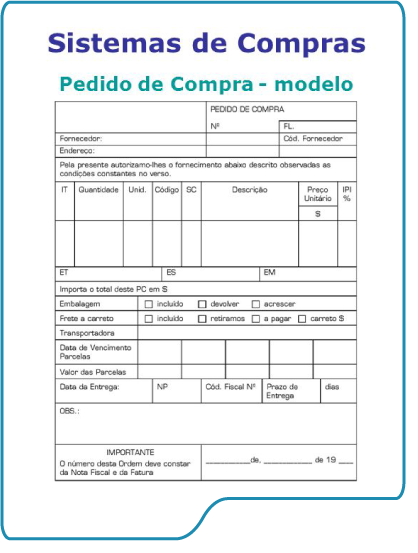
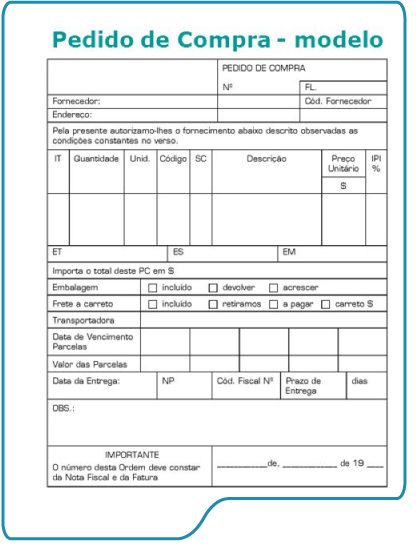
ajuste

Changed region(s): [[0.0933, 0.0, 0.9952, 0.8915], [0.0, 0.0, 0.0311, 0.9837]]

diff --git a/conteudo/05_tendencias.html b/conteudo/05_tendencias.html
@@ -690,6 +690,8 @@
             <div class="caixa-destaque">
             <p> <strong>CD (custos diretos) + CI (custos indiretos) + DF (despesas fixas) + DV (despesas variáveis) = CT (custo total) </strong></p>
             </div>
+            
+            <p class="only-print" style="page-break-after: always;"></p>
             <h4>Definição da margem de lucro </h4>
             <p>
               É imprescindível saber definir quanto a empresa ganhará após uma venda, ou seja, qual será o seu lucro. Isso não deve ser associado simplesmente a preços altos. Saber como calcular o custo de um produto de forma correta pode aumentar muito mais a sua margem de ganhos do que um preço elevado, por exemplo. 
@@ -912,7 +914,7 @@
             <p>Para garantir a confiabilidade da compra, quanto mais detalhado for o pedido de compra, melhor, pois assim o comprador e o vendedor conseguem realizar transações seguras e bem-sucedidas. Veja um modelo de pedido de compras: </p>
           
             <figure>
-              <img src="images/05/img06.png" style="max-width: 500px!important; " class="center-block img-responsive print borda img-menor"
+              <img src="images/05/img06.png" style="max-width: 400px!important; " class="center-block img-responsive print borda img-menor"
                 alt="A imagem mostra o modelo de um pedido de compras que tem, no cabeçalho, campos para as informações do fornecedor, no corpo, campos para detalhes do pedido e, no rodapé, aviso e campo para data. ">
               <figcaption>Modelo de pedido de compra  
                 <br>  Fonte: <i>Blog</i> Gestão de SANDs (2017) 
@@ -1248,6 +1250,69 @@
             <p>Se o pagamento por boleto bancário é funcional para o cliente, ele também apresenta vantagens para o gestor, principalmente para aqueles que trabalham com serviços de recorrência, como acontece com um clube de assinaturas. Isso porque é possível que o empreendedor aplique uma régua de cobrança e, assim, envie mensagens e alertas sobre o <i>status</i> do pagamento para o cliente, uma situação que contribui muito para a diminuição da inadimplência. </p>
             <p>Conheça como isso funciona na prática: </p>
             <h1>podcast</h1>
+        <div class="acessivel print">
+<p>Podcast Ferramentas de controle </p>
+<p>Olá, estudantes do curso Técnico em Óptica do Senac EAD. Aqui quem fala é Maressah Sampaio, eu sou jornalista e hoje a nossa pauta é ferramentas de controle. </p>
+<p>E para bater um papo sobre esse assunto, está aqui comigo a tutora Patrícia Reddel, que é técnica em óptica, bióloga, mestre em biociências e empresária do ramo óptico, além, é claro, de tutora do curso Técnico em Óptica aqui do Senac EAD e diretora do Sindióptica. Quanta coisa, Patrícia! Tudo bem?  </p>
+<p>Tudo bem, que prazer estar aqui hoje podendo bater este papo com vocês.  </p>
+<p>Só faltou perguntar, mais ou menos, quanto tempo tu está nesse ramo da óptica?  </p>
+<p>Então, até que não é tanto tempo assim. Já faz 10 anos que eu iniciei aqui no ramo da óptica e ele é apaixonante. Consegui me encontrar nessa profissão. E é sempre um prazer. </p>
+<p>Certo. Também aqui conosco está ele, que já é bastante assíduo aqui nos nossos podcasts, o professor Alexandre Tanski, que também é tutor do curso e empresário do ramo óptico. Seja bem-vindo novamente, professor! Tudo bem?  </p>
+<p>Tudo joia! Mais uma vez... </p>
+<p>E tu está a quanto tempo no ramo óptico? Já que perguntei para a Patrícia. </p>
+<p>Eu sempre brinco que eu já sou um idoso no ramo óptico. </p>
+<p>É melhor não falar. </p>
+<p>Eu já estou, como estudante, desde 1989. </p>
+<p>Inaugurando algumas escolas. </p>
+<p>Com muita honra, muito orgulho, representando as maiores escolas do Sul do Brasil. E, como empresario, completo 25 anos este ano. Então já tenho uma estrada bem grande no ramo, até em todas as áreas, e estamos aqui para ajudar e contribuir para que a gente tenha um novo olhar sobre cada item neste dia. </p>
+<p>Perfeito. Então, eu vou começar falando sobre a nossa pauta, que é controle de vendas. Vou começar justamente contigo, Tanski. Traz toda essa tua experiência, porque, ao longo desses anos, deve ter testado muita coisa que deu certo e muita coisa que deu errado, né? Então, quando a gente fala nessas ferramentas de controle, como é que tu utiliza na tua óptica, por exemplo? </p>
+<p>É legal a gente observar que nós falamos da óptica e procuramos focar o comércio. Mas também há os laboratórios, os distribuidores e todos os outros setores que incorporam a estrutura do ramo, né? Fazem parte disso tudo. Eu entendo, e aí até como administrador formado, mas pela experiência de empreendedor, que um dos segredos do sucesso do empreendimento óptico ou do empreendimento é a gestão, é o controle. É o controle de estoque, é o controle é de clientes, a nossa maior riqueza, né? Saber quem são nossos clientes, qual é o perfil deles. Sem essa informação, nós não temos como tomar decisões adequadas.  </p>
+<p>Daqui a pouco, no controle de estoque, tu saber se tem mercadoria de mais de um modelo ou de menos. A facilitação na emissão de nota fiscal hoje em dia... É indispensável a emissão de nota fiscal eletrônica. Então, a utilização de sistemas eletrônicos vão dar corpo e facilidade, agilidade no atendimento ao cliente e na construção desse ambiente de negócio que produz sucesso. A desorganização, a falta de planejamento, a falta de estratégia, que tem a ver com sistemas de controle, é a causa mais comum do insucesso do empreendedorismo. Então, fundamental é ter sistemas diferentes,. E o olhar que eu dei foi um olhar bem geral pra todos as instituições. </p>
+<p>Mas a Patrícia tem uma experiência bem legal que ela pode compartilhar com a gente. Fala aí, Patrícia.  </p>
+<p>Então, o sistema pode ser controlado por aplicativos. E temos sistemas também próprios para as ópticas. E aquela função do caderninho, isso já ficou para trás, né? Então, a gente tem sempre que estar atualizado. E os sistemas operacionais que hoje utilizamos se valem de várias estratégias, até, inclusive, que a gente possa relacionar, como o Tanski disse, a nossa maior riqueza, que são os nossos clientes… Que a gente possa estar enviando as malas diretas; podemos estar nos relacionando pelas redes sociais. </p>
+<p>Fazendo esses links todos bem importantes, hoje nós temos que estar sempre à vista. O nosso cliente precisa estar nos vendo. Então, a gente vai se valer das ferramentas de controle. O controle do estoque, o controle desse cadastro de clientes, o controle financeiro. E um detalhe que eu gosto sempre de alertar para quem está começando, e também quem já está a mais tempo: muitas vezes o nosso dinheiro está parado no estoque. Então, às vezes, não existe um capital de giro porque o dinheiro está lá. E se a gente não tiver esse olhar, saber o que tem, o porquê que eu estou comprando essa mercadoria, se eu preciso comprar essa mercadoria... A gente tem que ser bem racional na hora da compra. Não é comprar para mim. Eu tenho que saber o gosto do meu cliente. Eu tenho que saber o perfil do meu cliente para poder ser mais assertivo na compra. A melhor mercadoria é a que tem o melhor giro, né? Porque dinheiro parado no estoque é prejuízo.  </p>
+<p>Para quem está começando mesmo, acho que é bem, bem puxado, porque os nossos estudantes normalmente são pessoas que vão estar ali, ou que já têm uma experiência como vendedor, mas não tanto como administrador, por exemplo, ou que estão começando mesmo. Então, vocês diriam que esse foco em ferramentas do estoque é, assim, o mais importante, ou não? Tem outras coisas? Porque isso envolve investimento nessas ferramentas. E aí ele vai ter que optar no que ele vai investir primeiro. </p>
+<p>Tu fez uma pergunta de como eu construí isso na minha história. Então, sim, lá no início, fiz arquivos de papel. Assim que o sistema digital evoluiu, eu baixei softwares livres de gestão. Existem, estão disponíveis na internet, para computador e para celular, e inclusive contribuem na construção da emissão da nota fiscal, mas eles são limitados, eles possuem uma certa utilização que nem sempre atende ao mercado óptico. </p>
+<p>E eu entendo que o empreendedor que empreende sem capital suficiente já está muito mais perto do insucesso do que do sucesso. Então, planejar bem o empreendimento é fundamental. E acho que uma parte do investimento deve ser focada, sim, no sistema de gestão. A gestão... A Patrícia citou identificar como utilizar o dinheiro ou como utilizar o seu esforço. Que não é só dinheiro. É atendimento ao cliente. Todo o contexto ao redor do negócio é tão importante quanto a própria matéria, né? O próprio objeto. Uma mercadoria de qualidade pode até ser um dos segredos do sucesso em negócios em geral. É ter o mínimo de produtos possível, né? Quanto menos produto tiver e mais conseguir escalar esse produto, mais lucro vai conseguir por esse produto. E isso, muitas vezes, o software é que vai te trazer como informação. </p>
+<p>Mas dando um complemento. No ramo óptico, existem algumas peculiaridades gigantescas, que são: dados de prescrição, de receita, e isso é muito importante, tanto como arquivo e informação no histórico quanto como tomada de decisão. E software livre não tem isso. Então, só softwares linkados ao ramo óptico têm. Existem softwares que paga anual, existem softwares que paga mensal, existem softwares que te ajudam na tomada de medida. </p>
+<p>A Patrícia até tem uma história sobre software tomada de medida que é bem legal.  </p>
+<p>Então, esse software consegue conversar com todo o sistema. Ele, inclusive, auxilia nessas tomadas de medida, de DNP. A gente consegue tirar fotografia do cliente na loja e ali a gente consegue fazer várias imagens com esse cliente para ver distância vértice, ângulo pantoscópico, enfim, questões bem técnicas. E depois, esse software ele ainda conversa com o laboratório. Eu consigo ali abastecer todas as informações e ele já manda para o laboratório as informações para que possa ser produzida essa lente. Então, com isso a gente ganha tempo e diminui também o erro, né? Porque quando a gente transcreve, essa é uma questão, eu tiro as medidas, eu anoto, eu transcrevo, depois eu vou passar para o laboratório. Podem acontecer erros aí nesse processo, então a gente diminui as chances de erro. </p>
+<p>E também tem um registro para saber onde é que foi o possível erro. É importante. </p>
+<p>Sim. E o que eu também gosto desse software é que ele me ajuda a fazer a gestão do negócio como um todo. Eu tenho ali o controle das notas fiscais, eu sei o ticket médio, eu consigo observar quantos clientes eu atendi e quanto eu consegui converter em vendas. Então, eu tenho como olhar o meu negócio de uma forma bem assertiva. E a gente consegue também fazer com que os laboratórios ganhem agilidade em tempo, para que eu possa entregar mais rápido ainda o produto para o meu cliente. </p>
+<p>Tu falou da questão financeira, né? O Sistema S compõe um conjunto gigantesco de instituições, né? E uma delas é o Sebrae. E, de novo, a Patrícia tem uma vivência com o Sebrae que pode construir ajuda ao nosso estudante, de como encontrar um caminho de preço e até de financiamento de tudo. </p>
+<p>Eu vou contar para vocês um pouquinho, da minha história. Em alguns momentos eu passei por dificuldades financeiras. E de repente a gente fica dentro do problema e não consegue sair. E, por incrível que pareça, a primeira instituição que eu pensei foi o Sebrae. Eu digo “eu vou lá no Sebrae”. Eu tinha o acesso ao meu consultor e confesso, aqui para vocês, que eu cheguei chorando. Eu digo “eu estou realmente sem saber o que fazer”. E aí veio a solução, que foi: “para pouquinho, vamos buscar um consultor, vamos analisar o teu negócio”. E foi o que ele fez. Ele pegou a minha planilha; eu tinha isso tudo anotado. E ele começou a fazer a minha curva ABC, começou a me mostrar: “olha aqui esse teu produto”. Ele começou a me mostrar o estoque. Foi quando eu aprendi que o meu dinheiro estava todo no estoque. Então, procurar realmente quem possa nos dar assistência. E o Sebrae é um excelente parceiro. </p>
+<p>Então, a gente tem como fazer os cursos financeiros, de controle de estoque; tem vários cursos online gratuitos. A gente tem que estar sempre ligado nessas oportunidades para melhorar como profissional. </p>
+<p>É exatamente isso que eu ia perguntar para vocês, sobre as dicas que a gente pode dar para o pessoal que está começando agora. E com certeza procurar o Sebrae vai ser um atalho para muita coisa. Em muita coisa tu vai deixar de cometer os erros, porque tu teve acesso a todas essas ferramentas, capacitações. </p>
+<p>O plano de negócios. A gente tem como desenvolver o plano de negócios. E aí o que o Tanski comentou, de começar já com pouco dinheiro, isso não é a melhor saída. Talvez não é aquele momento exato para começar. Monta, planeja o teu negócio. E tu precisa também que saber como alimentar o teu banco de dados, porque depois eu tenho que conseguir retirar desse banco de dados as informações. Por exemplo, armações têm tamanhos, então eu preciso comprar as armações de acordo com os tamanhos que mais saem; as grades, cores. Eu tenho que saber que público que eu vou atingir. Quem quer vender para todo mundo não vende para ninguém. </p>
+<p>Então como é que eu vou me posicionar? Como é que vai ser a minha óptica? Ela vai atender um público mais comercial mesmo? Ou eu quero me destacar como sendo visagista? Quero vender armações ousadas? Eu vou ter esse público? Quem eu vou atingir? Então a partir daí, montando o teu negócio, tu vai saber o que comprar. E é claro que depois... É só o início. Mas aí tu vai sempre olhando e fazendo os ajustes necessários para ter sucesso. Mas tem que ter o foco. </p>
+<p>Perfeito! Agora eu vou usar esse tempo que nos resta aqui para a gente falar dos desafios na área. E vamos trazer para o prático aqui. A gente está falando com vocês dois e, para quem não sabe, estamos em Porto Alegre, no Rio Grande do Sul, que recentemente teve um grande problema com enchentes. Todo mundo sabe, no Brasil todo passou. A gente fala que passou muito na mídia, mas não é nem 10%. As pessoas não conseguem entender nem 10% da realidade, do tanto de pessoas que perderam tudo que tinham, das vidas que a gente perdeu e dos negócios, né? Os pequenos negócios em várias cidades, em dezenas de cidades aqui do Rio Grande do Sul. E vocês dois, por acaso, não tão acaso assim, porque estamos em Porto Alegre, mas vocês dois foram afetados de alguma forma por esse momento de enchentes aqui. </p>
+<p>Então vamos falar desse desafio, porque eu acho que vai ser uma lição muito grande para quem está nos ouvindo. A primeira pergunta, vou começar com o Tanski, é: quando tu te deparou com essa questão, “perdi muitas coisas da minha loja”, e tu vai nos dar os detalhes do estado que ficou, qual foi a primeira coisa que tu pensou mesmo? Depois, claro, do sentimento todo que muita gente experimentou, de ficar muito triste, um pouco de desamparo. Mas depois dessa questão do desafio, por onde começar de novo?  </p>
+<p>Eu gosto de dizer que, como professor há 25 anos, os alunos me perguntam como agir, como empreender no início. E a primeira dica que eu sempre dou é: dentro do possível, compre à vista. Tenha o mínimo de conta futura possível. Então acho que isso me deu um alento. Eu tenho o giro, né? Quando a gente vende um par de óculos, em 15 dias, em 30 dias, a fatura acumulada é feita e a gente faz o pagamento. Estabelecimento de parceiros de negócio também é fundamental, porque é nessa hora que tu precisa falar com teu parceiro. “Olha, aconteceu um evento dramático e eu preciso gerir o meu boleto contigo. Podemos jogar para 20 dias, 30 dias?”. Então esse contexto é fundamental. Passa por aí também a experiência, a vivência do ponto de negócio que tu utiliza. O teu ponto de negócio... Dificilmente a loja é proprietária desse ponto, a locação. Então também passa por essa vivência entender como... </p>
+<p>No caso da tua loja, foi em uma área que alagou. </p>
+<p>Alagou muito. Eu não gosto de chorar pelo passado. Eu vivo com um olhar para o futuro e vivo no olhar da construção. Do aprendizado e da construção. Mas eu tive a loja fisicamente 100% perdida. Estoque eu consegui salvar, porque eu elevei. Depois de alguns dias, 20, eu achei que podia mofar. Vim desesperado para tirar da possibilidade do mofo da água que ficou por muitos dias. Mas eu fiquei atento a tudo, extremamente preocupado, mas eu fiquei sólido, vamos pensar assim, se eu posso me autodefinir. Porque não tem o que possa ser feito, né? A gente viu. Eu tive meu carro perdido, eu tive que sair de casa com água, em certas posições da rua, no pescoço, mas com a família protegida, com o cachorrinho protegido. E saí bem, saí seguro dentro do que se contextualiza. Então a vida inteira foi afetada. Eu fui levado a Gravataí, aí depois eu acabei indo para Santa Catarina e fiquei quase 20 dias longe de tudo. O que foi fundamental para que eu pudesse ter sanidade, entendimento, capacidade de tomar decisões que me permitissem agir.  </p>
+<p>A fase dois é ação. Eu não posso fazer nada com alagamento. Eu fico trabalhando. Inclusive, foi fundamental eu estar junto ao Senac na docência. Tinha muita coisa para que a mente continuasse ocupada. Então depois de 20 dias, eu passei para agir, ir para a empresa, ver a lama, tirar e recomeçar. Ao perceber que a sala estava extremamente atingida, surgiu a oportunidade de uma nova sala em um ponto próximo. Então a decisão passou, dentro desse ambiente de gestão de negócio… O quanto eu ganho, o quanto eu perco? Eu estou perto do meu ponto atual; 25 anos de trabalho, uma vivência social estabelecida. O novo ponto vai ficar a 100 metros de distância. Bom, então a chance de eu conseguir manter aqueles clientes todos é bastante grande. </p>
+<p>Eu não vou mudar o meu perfil de cliente. Trocar de ponto para um ambiente talvez até mais bonito, mais interessante, poderia trocar totalmente meu perfil de clientes. E aí eu tenho toda uma mercadoria identificada com o perfil de consumidor e eu vou ocupar um espaço que não é aquela mercadoria, não é aquele tipo de atendimento, não é aquele tipo de empresa. E a empresa agora está na reforma do prédio, vai ficar mais bonita. Esse acho que é o olhar, né? </p>
+<p>Eu tenho duas frases que eu tenho repetido para mim e para todos que eu entro em contato. Primeiro uma frase até meio chula, que é: “até um chute no bumbum te empurra para a frente”. Então, às vezes, essa coisa pesada e agressiva é aquele impulso que tu precisa para ir para um novo momento, um novo espaço. </p>
+<p>E se a gente não tem essa visão positiva, fica muito difícil. Tem que ter a mente muito firme nas decisões que tu vai tomar. Hoje a empresa está já em reforma. A sala… Eu sou abençoado, porque consegui móveis que vão me ajudar muito a fazer uma sala bem bonita. Muito da mercadoria eu consegui salvar. Outras eu estou comprando. Ferramentas eu estou comprando, porque perdi tudo. Em óptica, tem parafusinho, chavezinha, coisinha, tudo isso estou tendo que comprar, porque não tem como lavar um parafuso de óculos, né? Plaquetas… É um mundo de detalhes. Mas vamos para o reinício. E a estratégia é uma nova empresa, posicionada em frente a bancos. É um ponto de referência para a economia local. Quatro dos maiores bancos do Brasil estão à distância de 30 metros do ponto, em uma avenida de extrema circulação daquele público que eu já atendo.  </p>
+<p>Então, eu entendo que as pessoas vão enxergar novamente o ponto de venda. Eu vou fazer uma comunicação bem objetiva, usar redes sociais para multiplicar. E já estou utilizando o meu banco de clientes, meu banco de dados, para fazer contato com os clientes, informando que eu estou adaptado, estou me ajustando, estou me adequando e, dentro do possível, dando atendimento àqueles que se sujeitam a uma sala adaptada, a um ambiente adaptado e quem sabe até um home care, um atendimento em casa. </p>
+<p>Mas acho que para o empreendedor, as dificuldades... E aí a segunda frase: “tempos difíceis fazem pessoas fortes; tempos fáceis fazem pessoas fracas”. Então, acho que é um tempo de grandes desafios, mas que vão nos tornar melhores. Vamos nos tornar pessoas... </p>
+<p>E aí, como última frase de fechamento até da nossa interação aqui. Uma visão que eu tive diante desse extremo evento é como o povo é bom, como as pessoas são maravilhosas, como eu recebi carinho, atenção, olhar, ajuda de todas as formas, algumas por objetos. Eu pedi um lensômetro, para comprar barato, e alguém me ofereceu, lá de Ijuí, um presente. Então não tem palavras para isso, não é o valor da coisa, é a atitude da coisa. E acho que isso também passa pelo jeito que eu sou, que para o meu cliente eu faço muito isso, para o indivíduo que eu nunca vi na vida. Eu tento ajudar, dar assistência, tento construir a solução para ele, porque eu acho que esse é o caminho do sucesso na vida. Do bem-estar na vida, de dormir bem, porque tu fez o bem e isso acaba voltando pra ti. </p>
+<p>Perfeito, Tanski. Muito obrigada por compartilhar com a gente. A gente sabe que, às vezes, não é tão fácil ainda falar de tudo o que aconteceu, mas eu vou pedir para a Patrícia também nos contar o relato dela. E aí a gente já estourou um pouquinho o tempo, mas vamos mais 5 minutinhos aqui, porque é muito importante. Isso também afetou a vida de todo mundo. E isso que o que o Tanski falou, da questão de a gente saber que pode contar com pessoas, porque, dentro de um negócio, a gente tem parceiros, por exemplo. Daqui a pouco tem que pedir um prazo a mais, um boleto ali para pagar no outro mês. E vimos que se a gente constrói uma trajetória de parcerias, consegue nesses momentos de dificuldade também ter isso ao nosso favor. Patrícia, o teu relato. Como é que tu foi afetada? E como é que tu conseguiu também começar a dar essa volta por cima? </p>
+<p>A minha loja também foi afetada. Fica na parte central de Porto Alegre e foi alagada. Só que não na mesma intensidade, na altitude da do Tanski, mas estragaram os móveis, ficamos 30 dias com água dentro da loja, impossibilitados de entrar, então ficamos sem o faturamento de 30 dias e isso pesa bastante. E como tu perguntaste, qual foi a primeira coisa que me veio à cabeça? Se não tem solução, solucionado está. Eu tenho que esperar baixar a água. Eu não tenho como fazer diferente. Então entrei nas minhas redes sociais, avisei os meus clientes, tentei localizá-los, fui à loja retirar os produtos que ainda estavam por ser entregues, entreguei aos clientes, também respeitando o momento. </p>
+<p>E resiliência foi a palavra que me deu realmente o norte. Contando um pouquinho, vai parecer que tem muitas desgraças, mas isso tudo me fez ser quem eu sou. Eu já passei por incêndio em shopping center, já passei por um outro alagamento em um outro shopping center. E na época da pandemia, eu estava dentro de um shopping center com a minha óptica e nós não podíamos abrir pelo shopping. Mas a óptica, por ser serviço essencial, podia. </p>
+<p>E aí o que eu fiz? Em plena pandemia, eu me mudei e abri a loja em um ponto da rua. Então, assim, quando tem um problema, a gente tem que pensar é na solução. Acho também que tudo isso que eu já passei foi me ensinando. E aí vem os apoios. A gente se cerca dos amigos, a gente se cerca dessa corrente de solidariedade. </p>
+<p>E mais uma vez veio o Sebrae na minha vida. Então agora a gente já foi selecionado para o Sebrae Supera, que é uma forma de a gente também conseguir um auxílio para recuperar. Vamos ter que pintar a loja. Móveis estão sendo reorganizados. Então é contar com o apoio. E olhar para a frente. Eu brinco que a gente não tem tempo para esmorecer e para chorar, porque a gente tem que pensar na solução. O que fizemos? Abrimos a loja no dia seguinte que a água baixou. Já fizemos a limpeza e abrimos. Os móveis estão inchados, mas as mercadorias não perdemos. Avisamos os clientes e, que coisa mais linda, eles começaram a vir. </p>
+<p>Então é isso que nós precisamos, é olhar para a frente. E os fornecedores também foram muito parceiros. Isso eu acho importante ressaltar. Nós sempre temos que olhar os nossos fornecedores como parceiros. E tem que ser uma política de ganha-ganha. A gente nunca pode pensar no fornecedor... De ter que espremer ele ao máximo para que a gente saia ganhando. Não! No momento que tu tem parceiros nos momentos difíceis, pode ter certeza que, se a relação é saudável, eles vão te apoiar. E foi isso que aconteceu.  </p>
+<p>Ah, perfeito, gente. E fica aqui o nosso encerramento também com um pouco de otimismo, até porque a gente está incentivando as pessoas aqui a empreenderem, e o empreendedor tem que se reinventar, né? É uma vida de reinvenção o tempo inteiro. Então com vocês já aconteceu algumas vezes. E vai acontecer. </p>
+<p>Nos avisaram que nosso tempo estourou, então eu vou agradecer vocês. Muito obrigada não só por falar das ferramentas de controle, mas também de todas essas experiências que vão ser muito importantes para quem está nos ouvindo em casa. Quem ouve, ouve em casa, ouve no ônibus, né? Esse modelo de podcast é legal porque a pessoa pode estar fazendo outras coisas e ouvindo. </p>
+<p>Mas com certeza não só como empreendedores, como a pessoa que vai ter seu negócio, mas até como ser humano mesmo, a gente tem que pensar nessa coisa, né? Aconteceu algo inesperado, tem que tirar força de algum lugar e seguir adiante. Acho que foi isso que a gente falou um pouco hoje. Então, muito obrigada, Tanski, conte sempre conosco, e Patrícia. Voltem sempre aqui, porque foi muito bacana esse bate-papo. </p>
+<p>Vocês querem deixar algum contato para o pessoal, de rede social? Onde o pessoal pode procurar para conhecer mais o trabalho de vocês, as ópticas de vocês?  </p>
+<p>Tanto o Facebook, eu tenho um canal do YouTube também, quanto o Instagram, se procurar “Alexandre Tanski”, “Óptica Tanski”, vai encontrar. Não tem muita dificuldade. Então, os dois, os três… </p>
+<p>E comigo também. Facebook e Instagram é “Nobre Causa Óptica”. </p>
+<p>Então está certo. Muito obrigada aos nossos convidados. Com certeza a gente aprendeu bastante aqui hoje. E obrigada também a quem ficou aí nos ouvindo onde quer que esteja, em casa, em qual cidade do Brasil esteja.  </p>
+<p>É isso, gente. Ficamos por aqui. Bons estudos e até a próxima! </p>
+        </div>
+
 
               <p>Estando atualizado sobre as tendências do mercado mundial, o profissional técnico em óptica poderá garantir melhores resultados no seu planejamento de vendas, proporcionando atualizações de mercado para seus clientes. Portanto, é fundamental que ele tenha o conhecimento aprofundado do seu estoque. Para isso, existem inúmeras formas e ferramentas que podem ajudar a fazer o controle de suas vendas.  </p>
               <p>As expectativas são grandes em relação às oportunidades e aos desafios para o futuro do mercado óptico brasileiro, e cada um terá um papel importante, cabendo ao profissional técnico em óptica encontrar sua especialidade e as funções com as quais se identifica. </p>

diff --git a/conteudo/02_legislacao_vigente.html b/conteudo/02_legislacao_vigente.html
@@ -475,7 +475,14 @@ país.
                   amparado no artigo 88 da Lei nº 10.083/1998, que torna obrigatória a presença
                   do técnico responsável pelo estabelecimento de interesse à saúde (São Paulo
                   [Estado], 1998).</p>
-                <figure style="float: right;">
+                  <figure class="only-print">
+                    <img src="images/02/anvisa.jpg" style="max-width: 190px !important;" class="center-block img-responsive print borda img-menor"
+                      alt="Anvisa.">
+                    <figcaption>
+     
+                    </figcaption>
+                  </figure>
+                <figure style="float: right;" class="no-print">
                   <img src="images/02/anvisa.jpg" class="center-block img-responsive print borda img-menor"
                     alt="Anvisa.">
                   <figcaption>
@@ -518,6 +525,48 @@ país.
                 </div>
               </div>
                 </div>
+                
+             <div class="acessivel print">
+              <!--  -->
+
+              
+              <h4 class="modal-title" id="myModalLabel">Etapas para registrar o termo de abertura </h4>
+              <ul  class="iconeOlho">
+                <li>    Apresentar, na Vigilância Sanitária, o livro de registro com o termo de abertura da primeira página devidamente preenchido com os dados de identificação do estabelecimento, nome, CPF e assinatura do óptico responsável. </li>
+                <li>    Retirar, na Vigilância Sanitária, a guia para pagamento da taxa para abertura do livro. </li>
+                <li>    Aguardar o registro, que ocorrerá em até três dias úteis. </li>
+                <li>    Para retirar o livro, apresentar o comprovante de pagamento da taxa. </li>
+              </ul>
+              <p>Veja o termo de abertura contido no livro de registro de receitas de óptica: </p>
+              
+              <figure>
+                <img src="images/02/fig1.jpg" class="center-block img-responsive print borda img-menor"
+                  alt="Imagem mostra a primeira página do livro de registro de receitas de óptica, onde acima diz Termo de Encerramento e abaixo estão os campos para preenchimento dos dados, como número de folhas e informações do estabelecimento. Finaliza com assinatura e dados do responsável técnico.">
+                <figcaption>Termo de abertura do livro de registro de receitas de óptica 
+                  <br>Jundiaí (s. d.) 
+
+                </figcaption>
+              </figure>
+              <p style="page-break-after: always;"></p>
+              <h4 class="modal-title" id="myModalLabel">Etapas para registrar o termo de encerramento </h4>
+              <ul class="iconeOlho">
+                <li>    Apresentar, na Vigilância Sanitária, o livro de registro com o termo de encerramento da última página devidamente preenchido com os dados de identificação do estabelecimento, nome, CPF e assinatura do óptico responsável. </li>
+                <li>    Apresentar um novo livro para registro do termo de abertura (que seguirá as etapas de abertura). </li>
+                <li>    Aguardar o registro, que ocorrerá em até três dias úteis. </li>
+              </ul>
+              <p>
+                Veja o termo de encerramento contido no livro de registro de receitas de óptica: 
+              </p>
+              <figure>
+                <img src="images/02/fig02.jpg" class="center-block img-responsive print borda img-menor"
+                  alt="Imagem mostra a primeira página do livro de registro de receitas de óptica, onde acima diz Termo de Encerramento e abaixo estão os campos para preenchimento dos dados, como número de folhas e informações do estabelecimento. Finaliza com assinatura e dados do responsável técnico.">
+                <figcaption>Termo de encerramento do livro de registro de receitas de óptica 
+                  <br>Jundiaí (s. d.) 
+
+                </figcaption>
+              </figure>
+              <!--  -->
+             </div>
 
                 <h4>Preenchimento do livro de registro de receitas de óptica</h4>
 
